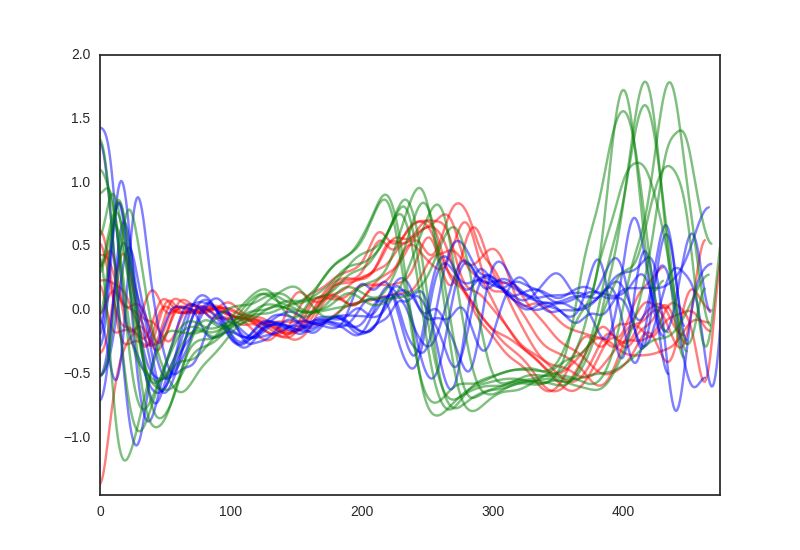
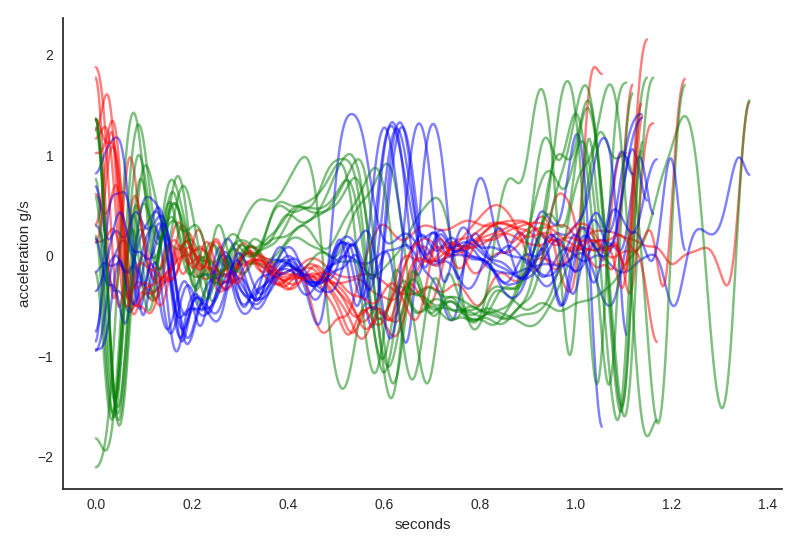
Properly deramp time series data, correct x-axis to be seconds

Changed region(s): [[0.0, 0.0927, 0.9688, 0.9582]]

diff --git a/f_transform.py b/f_transform.py
@@ -2,6 +2,9 @@ import pandas as pd
 import numpy as np
 from scipy.ndimage.filters import gaussian_filter as gf
 from scipy import signal
+import seaborn as sns
+import pylab as plt
+sns.set_style('white')
 
 
 f_csv = "data_collection/travis_walking_indoor_test5.dat"
@@ -19,6 +22,7 @@ df = pd.read_csv(
     f_csv,
     header = None,
     sep=' ',
+    nrows=10**20,
 ).rename(columns=cols)
 df.ax = (df.ax*2)/2**(15)
 df.ay = (df.ay*2)/2**(15)
@@ -28,42 +32,62 @@ df.gx = (df.gx*2000)/2**(15)/(360.)
 df.gy = (df.gy*2000)/2**(15)/(360.)
 df.gz = (df.gz*2000)/2**(15)/(360.)
 
-
 device_idx = df['device'].unique()
+
+# Map each device to a dictionary
 dev = dict(zip(*[device_idx,[df[df.device==x] for x in device_idx]]))
 
+
+def detrend_ramped_time_series(T):
+    max_clock_cycle = 2**32
+    clock_threshold = 2**28
+    dt = 1/(200.0*10**6)
+
+    # Assumes data starts off at some time and when it reaches zero, resets
+    idx = np.roll(np.ediff1d(T,0)>clock_threshold, 1)
+    T -= np.cumsum(idx)*max_clock_cycle
+
+    # Start data counting up
+    T *= -1
+
+    # Start time at 0
+    T -= T[0]
+
+    # Convert to seconds
+    return dt*T
+
 for i in dev:
+    pd.options.mode.chained_assignment = None
+    dev[i]['time'] = detrend_ramped_time_series(dev[i]['timestamp'].values)
+    pd.options.mode.chained_assignment = 'warn'
+
+    #dev[i].set_index('time',inplace=True)
     del dev[i]['timestamp']
     del dev[i]['device']
 
-import seaborn as sns
-import pylab as plt
-sns.set_style('white')
 
 start_time = 81.5
 end_time = 93.5
 #end_time = start_time+52.8
 
 for idx in range(4):
-    idx = 2
+    idx = 1
     
-    # Approx time delta for samples (this isn't quite correct)
-    T = np.arange(0, len(dev[idx].ax), 1/400.)
-    T = T[:len(dev[idx].ax)]
+    time_idx = (dev[idx].time>=start_time) & (dev[idx].time<=end_time)
+    df = dev[idx][time_idx]
 
-    time_idx = (T>=start_time) & (T<end_time)
-    T = T[time_idx]
-
-    ax = dev[idx].ax[time_idx]
-    ay = dev[idx].ay[time_idx]
-    az = dev[idx].az[time_idx]
+    T = df.time[time_idx].values
+    ax = df.ax[time_idx]
+    ay = df.ay[time_idx]
+    az = df.az[time_idx]
 
     ax -= ax.mean()
     ay -= ay.mean()
     az -= az.mean()
 
-    mag = ax**2 + ay**2 + ax**2
+    mag = (ax-ax.mean())**2 + (ay-ay.mean())**2 + (az-az.mean())**2
     mag = gf(mag,sigma=12.0)
+
 
     # Find the peaks
     peak_idx = signal.find_peaks_cwt(mag, T)
@@ -78,28 +102,19 @@ for idx in range(4):
 
     t,AX,AY,AZ = [],[],[],[]
     for i,j in zip(peak_idx, peak_idx[1:]):
-        t.append(T[i:j])
-        AX.append(ax[i:j])
-        AY.append(ay[i:j])
-        AZ.append(az[i:j])
 
+        t = T[i:j]
+        t -= t.min()
+        for a,c in zip([ax,ay,az],['r','g','b']):
+            
+            ag = gf(a[i:j], sigma=6.0)
+            plt.plot(t, ag, color=c, alpha=0.5)
 
-    for y in AX:
-        y = y.values
-        y = gf(y,sigma=6.0)
-        plt.plot(y, color='r',alpha=0.5)
-
-    for y in AY:
-        y = y.values
-        y = gf(y,sigma=6.0)
-        plt.plot(y, color='b',alpha=0.5)
-
-    for y in AZ:
-        y = y.values
-        y = gf(y,sigma=6.0)
-        plt.plot(y, color='g',alpha=0.5)
+    plt.xlabel('seconds')
+    plt.ylabel('acceleration g/s')
+    sns.despine()
+    plt.tight_layout()
     plt.show()
-    
     exit()
     
     print x
@@ -123,13 +138,13 @@ for idx in range(4):
     
     
     
-    axes[0][0].plot( T, dev[idx].ax )
-    axes[0][1].plot( T, dev[idx].ay )
-    axes[0][2].plot( T, dev[idx].az )
+    axes[0][0].plot( T, df.ax )
+    axes[0][1].plot( T, df.ay )
+    axes[0][2].plot( T, df.az )
     
-    axes[1][0].plot( T, dev[idx].gx )
-    axes[1][1].plot( T, dev[idx].gy )
-    axes[1][2].plot( T, dev[idx].gz )
+    axes[1][0].plot( T, df.gx )
+    axes[1][1].plot( T, df.gy )
+    axes[1][2].plot( T, df.gz )
 
     plt.suptitle("device {}".format(idx))
     
